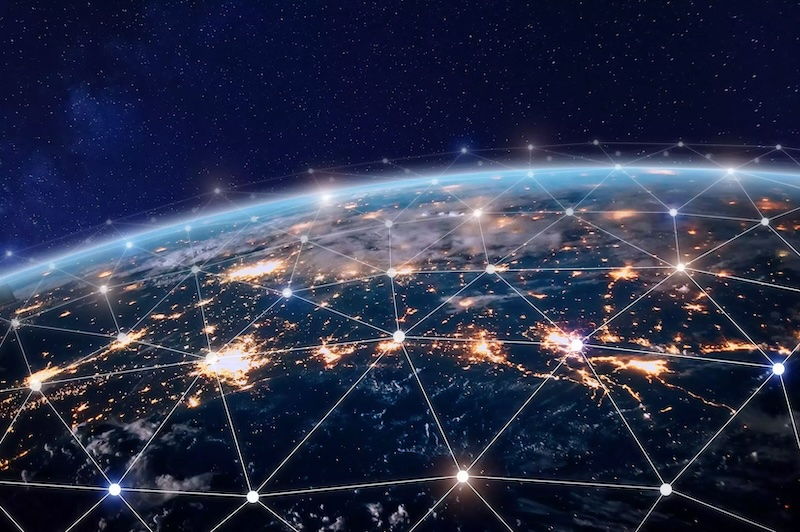
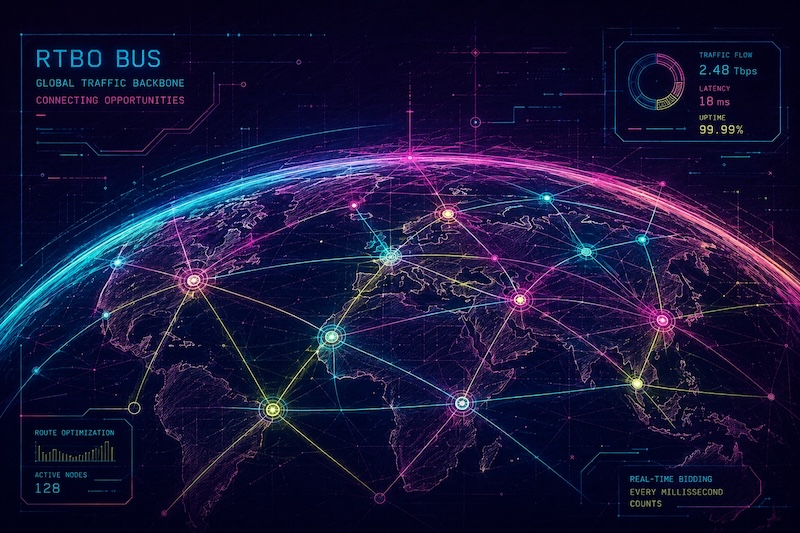
Up media files

diff --git a/app/[locale]/page.tsx b/app/[locale]/page.tsx
@@ -1,8 +1,8 @@
+import { FeatureGrid } from "@/components/home/feature-grid";
+import { HeroBadge, HeroSection } from "@/components/home/hero-section";
+import { Link } from "@/i18n/navigation";
 import type { Metadata } from "next";
 import { getTranslations, setRequestLocale } from "next-intl/server";
-import { Link } from "@/i18n/navigation";
-import { HeroBadge, HeroSection } from "@/components/home/hero-section";
-import { FeatureGrid } from "@/components/home/feature-grid";
 
 type Props = {
   params: Promise<{ locale: string }>;
@@ -32,7 +32,7 @@ export default async function HomePage({ params }: Props) {
         "radial-gradient(ellipse at 50% 80%, rgba(0,123,255,0.15), hsla(0,0%,100%,0))",
       image: "/images/index-ef-traffic-sm.jpg",
       imageClassName:
-        "pointer-events-none absolute top-[40%] left-[24px] w-[180%] max-w-none rounded-xl sm:w-[110%] dark:opacity-80",
+        "pointer-events-none absolute top-[20%] left-[24px] w-[180%] max-w-none rounded-xl sm:w-[110%] dark:opacity-80",
     },
     {
       key: "rtb",
@@ -42,7 +42,7 @@ export default async function HomePage({ params }: Props) {
         "radial-gradient(ellipse at 50% 80%, rgba(34,139,34,0.15), hsla(0,0%,100%,0))",
       image: "/images/index-rtb-sm.jpg",
       imageClassName:
-        "pointer-events-none absolute top-[40%] left-[36px] w-[180%] max-w-none rounded-xl sm:w-[110%] dark:opacity-80",
+        "pointer-events-none absolute top-[20%] left-[36px] w-[180%] max-w-none rounded-xl sm:w-[110%] dark:opacity-80",
     },
     {
       key: "analytics",
@@ -52,7 +52,7 @@ export default async function HomePage({ params }: Props) {
         "radial-gradient(ellipse at 50% 80%, rgba(255,193,7,0.15), hsla(0,0%,100%,0))",
       image: "/images/index-analytics-sm.jpg",
       imageClassName:
-        "pointer-events-none absolute top-[40%] left-[36px] w-[110%] max-w-none rounded-xl sm:w-[110%] dark:opacity-80",
+        "pointer-events-none absolute top-[20%] left-[36px] w-[110%] max-w-none rounded-xl sm:w-[110%] dark:opacity-80",
     },
     {
       key: "integration",
@@ -60,9 +60,9 @@ export default async function HomePage({ params }: Props) {
       subtitle: t("features.integration.subtitle"),
       gradient:
         "radial-gradient(ellipse at 50% 80%, rgba(0,123,255,0.1), hsla(0,0%,100%,0))",
-      image: "/images/feature-integration.svg",
+      image: "/images/feature-integration.jpg",
       imageClassName:
-        "pointer-events-none absolute top-[8%] left-1/2 w-[85%] max-w-none -translate-x-1/2 dark:opacity-80",
+        "pointer-events-none absolute top-[20%] left-[36px] w-[110%] max-w-none rounded-xl sm:w-[110%] dark:opacity-80",
     },
     {
       key: "responsive",
@@ -70,9 +70,9 @@ export default async function HomePage({ params }: Props) {
       subtitle: t("features.responsive.subtitle"),
       gradient:
         "radial-gradient(ellipse at 50% 80%, rgba(34,139,34,0.1), hsla(0,0%,100%,0))",
-      image: "/images/feature-responsive.svg",
+      image: "/images/feature-responsive.jpg",
       imageClassName:
-        "pointer-events-none absolute top-[8%] left-1/2 w-[85%] max-w-none -translate-x-1/2 dark:opacity-80",
+        "pointer-events-none absolute top-[20%] left-[36px] w-[110%] max-w-none rounded-xl sm:w-[110%] dark:opacity-80",
     },
     {
       key: "more",
@@ -80,9 +80,9 @@ export default async function HomePage({ params }: Props) {
       subtitle: t("features.more.subtitle"),
       gradient:
         "radial-gradient(ellipse at 50% 80%, rgba(255,193,7,0.1), hsla(0,0%,100%,0))",
-      image: "/images/feature-more.svg",
+      image: "/images/feature-more.jpg",
       imageClassName:
-        "pointer-events-none absolute top-[8%] left-1/2 w-[85%] max-w-none -translate-x-1/2 dark:opacity-80",
+        "pointer-events-none absolute top-[20%] left-[36px] w-[110%] max-w-none rounded-xl sm:w-[110%] dark:opacity-80",
     },
   ];
 

diff --git a/app/[locale]/layout.tsx b/app/[locale]/layout.tsx
@@ -1,10 +1,11 @@
+import { Footer } from "@/components/layout/footer";
+import { LocaleAttr } from "@/components/layout/locale-attr";
+import { Navbar } from "@/components/layout/navbar";
+import { Providers } from "@/components/providers";
+import { routing } from "@/i18n/routing";
 import { NextIntlClientProvider } from "next-intl";
 import { getMessages, setRequestLocale } from "next-intl/server";
 import { notFound } from "next/navigation";
-import { routing } from "@/i18n/routing";
-import { Providers } from "@/components/providers";
-import { Navbar } from "@/components/layout/navbar";
-import { Footer } from "@/components/layout/footer";
 import type { ReactNode } from "react";
 
 type Props = {
@@ -27,30 +28,13 @@ export default async function LocaleLayout({ children, params }: Props) {
   const messages = await getMessages();
 
   return (
-    <html lang={locale} suppressHydrationWarning>
-      <head>
-        <link rel="icon" href="/favicon.svg" type="image/svg+xml" />
-        <link
-          rel="alternate"
-          hrefLang="en"
-          href="https://rtb0.com/en/"
-        />
-        <link
-          rel="alternate"
-          hrefLang="es"
-          href="https://rtb0.com/es/"
-        />
-        <link rel="alternate" hrefLang="x-default" href="https://rtb0.com/en/" />
-      </head>
-      <body className="flex min-h-screen flex-col">
-        <NextIntlClientProvider messages={messages}>
-          <Providers>
-            <Navbar />
-            <main className="flex-1">{children}</main>
-            <Footer />
-          </Providers>
-        </NextIntlClientProvider>
-      </body>
-    </html>
+    <NextIntlClientProvider messages={messages}>
+      <LocaleAttr locale={locale} />
+      <Providers>
+        <Navbar />
+        <main className="flex-1">{children}</main>
+        <Footer />
+      </Providers>
+    </NextIntlClientProvider>
   );
 }

diff --git a/app/layout.tsx b/app/layout.tsx
@@ -5,5 +5,19 @@ export default function RootLayout({
 }: {
   children: React.ReactNode;
 }) {
-  return children;
+  return (
+    <html suppressHydrationWarning>
+      <head>
+        <link rel="icon" href="/favicon.svg" type="image/svg+xml" />
+        <link rel="alternate" hrefLang="en" href="https://rtb0.com/en/" />
+        <link rel="alternate" hrefLang="es" href="https://rtb0.com/es/" />
+        <link
+          rel="alternate"
+          hrefLang="x-default"
+          href="https://rtb0.com/en/"
+        />
+      </head>
+      <body className="flex min-h-screen flex-col">{children}</body>
+    </html>
+  );
 }

diff --git a/components/home/feature-grid.tsx b/components/home/feature-grid.tsx
@@ -39,7 +39,7 @@ function FeatureCard({
 }: FeatureCardProps) {
   return (
     <div
-      className="relative flex min-h-[340px] flex-col justify-end overflow-hidden rounded-2xl border border-border bg-card p-6 md:aspect-[1.1/1] md:min-h-0"
+      className="relative flex min-h-[240px] flex-col justify-end overflow-hidden rounded-2xl border border-border bg-card p-6 md:aspect-[1.5/1] md:min-h-0"
       style={gradient ? { background: gradient } : undefined}
     >
       {image && (

diff --git a/components/layout/locale-attr.tsx b/components/layout/locale-attr.tsx
@@ -1,0 +1,10 @@
+"use client";
+
+import { useEffect } from "react";
+
+export function LocaleAttr({ locale }: { locale: string }) {
+  useEffect(() => {
+    document.documentElement.lang = locale;
+  }, [locale]);
+  return null;
+}
